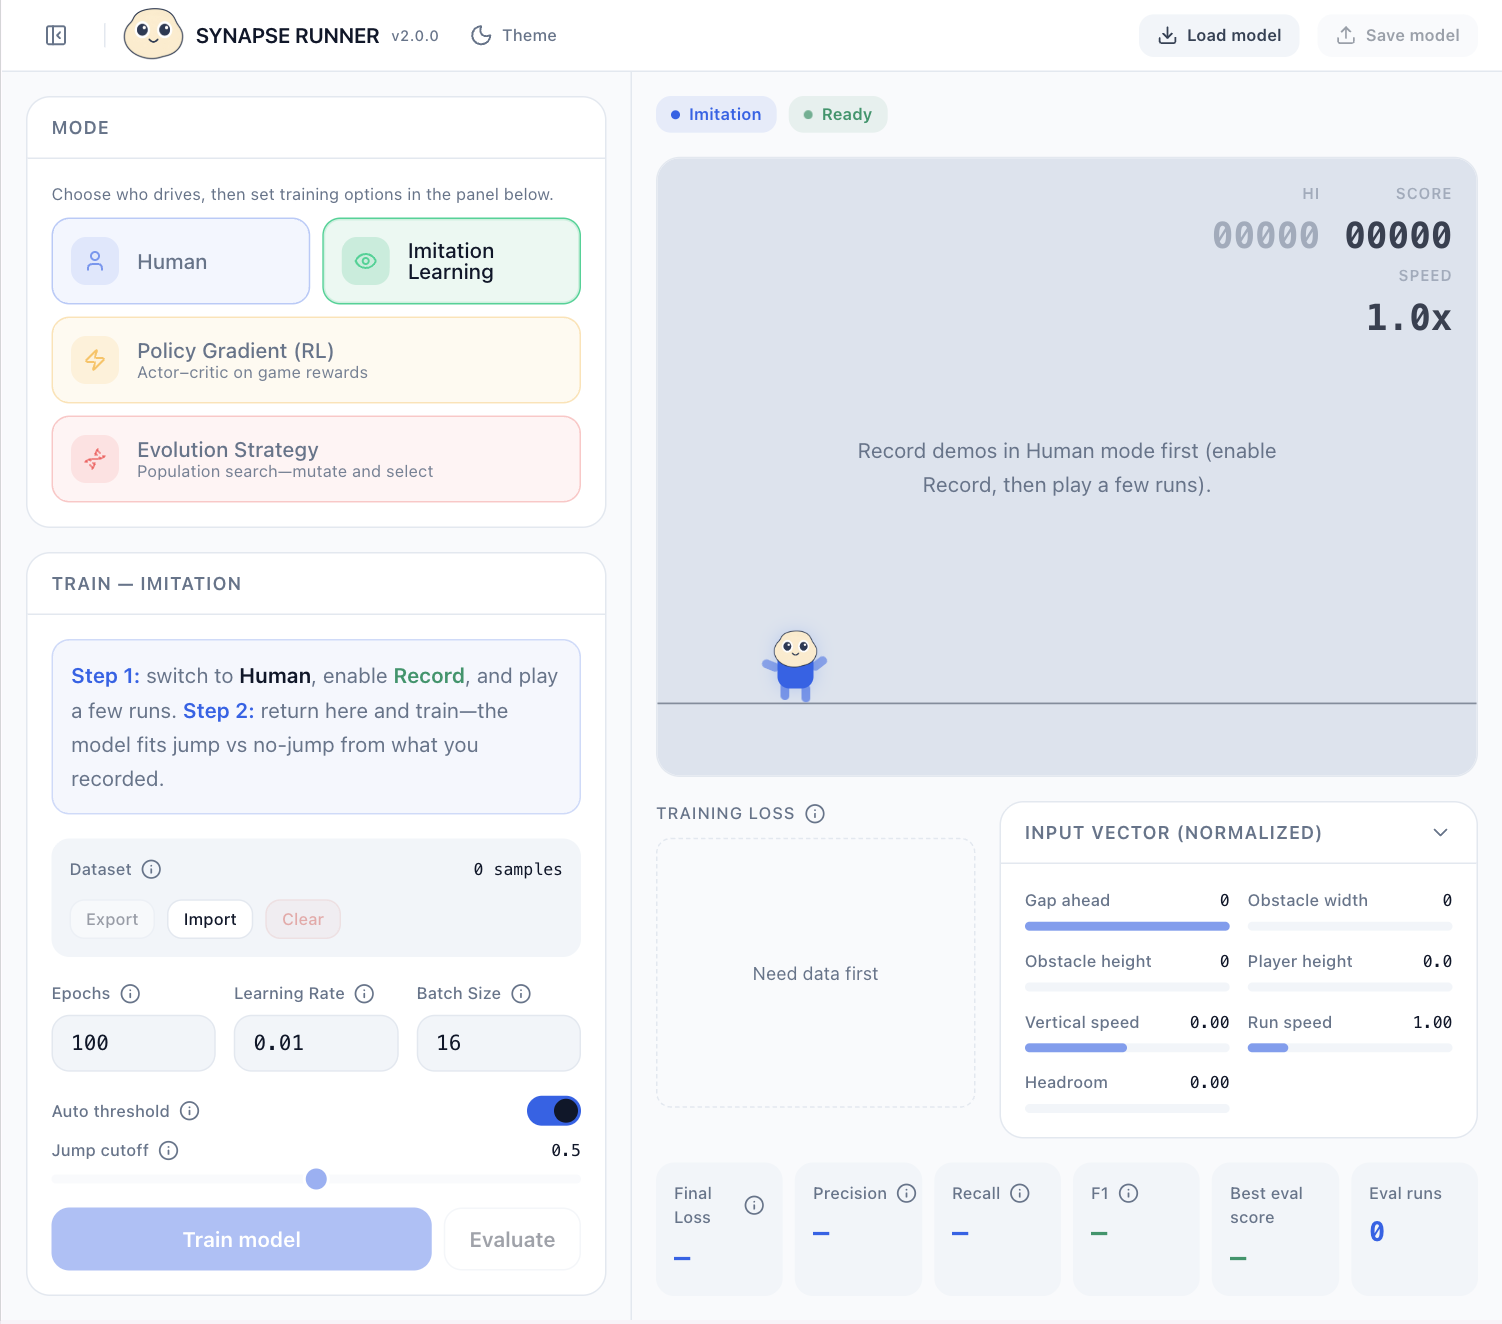
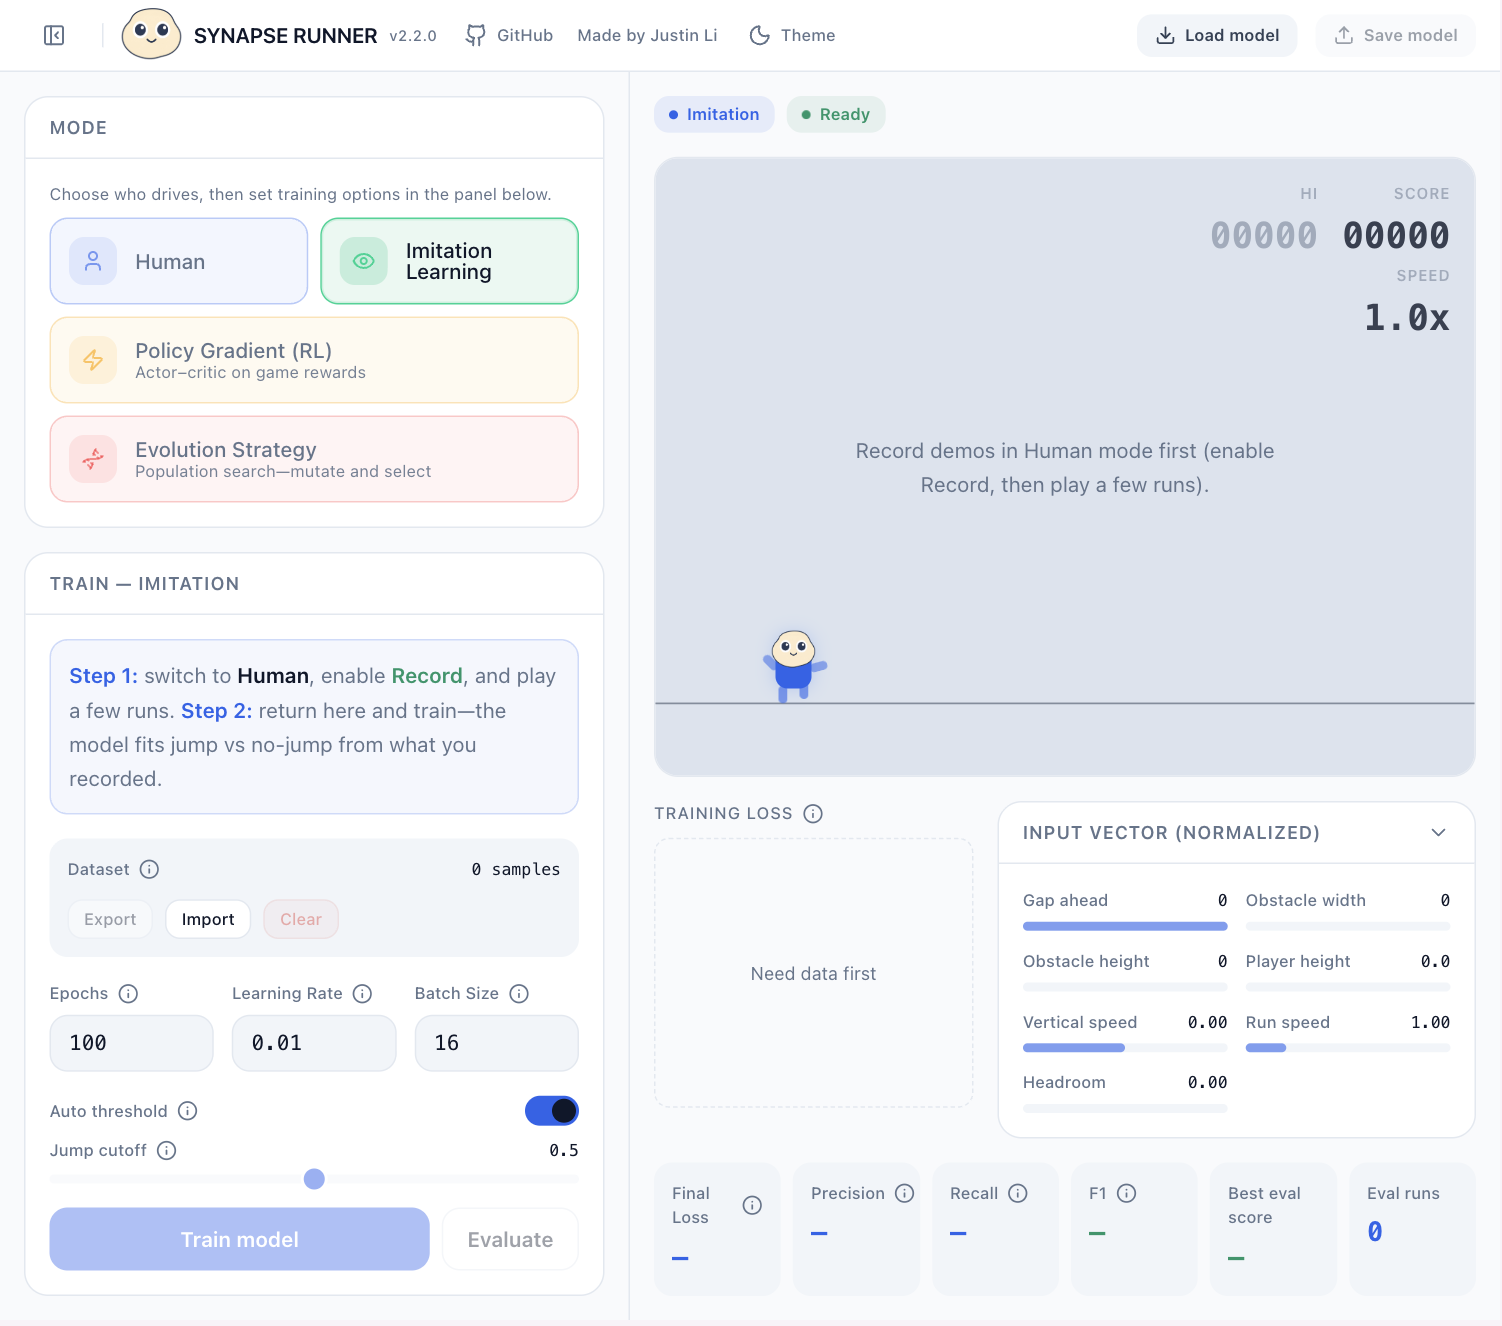
Release 2.2.0

diff --git a/src/components/dashboard/top-nav.tsx b/src/components/dashboard/top-nav.tsx
@@ -1,5 +1,5 @@
 import { useRef } from "react"
-import { Download, Upload, Moon, PanelLeftClose, PanelLeftOpen, Sun } from "lucide-react"
+import { Download, Github, Upload, Moon, PanelLeftClose, PanelLeftOpen, Sun } from "lucide-react"
 import { cn } from "@/lib/utils"
 import { APP_VERSION } from "@/version"
 import type { ImitationState, ImitationActions } from "@/hooks/useImitation"
@@ -76,6 +76,32 @@ export function TopNav({
           <span className="text-[10px] font-medium tabular-nums text-muted-foreground" title={`Version ${APP_VERSION}`}>
             v{APP_VERSION}
           </span>
+          <a
+            href="https://github.com/JustinLi6886/synapse-runner"
+            target="_blank"
+            rel="noopener noreferrer"
+            aria-label="View source on GitHub"
+            className={cn(
+              "ml-0.5 flex h-7 shrink-0 items-center gap-1.5 rounded-md px-2 text-muted-foreground transition-colors",
+              "hover:bg-secondary hover:text-card-foreground",
+              "focus-visible:outline-none focus-visible:ring-2 focus-visible:ring-ring"
+            )}
+          >
+            <Github className="h-4 w-4 shrink-0" aria-hidden />
+            <span className="text-[11px] font-medium">GitHub</span>
+          </a>
+          <a
+            href="https://github.com/JustinLi6886"
+            target="_blank"
+            rel="noopener noreferrer"
+            className={cn(
+              "text-[11px] font-medium text-muted-foreground whitespace-nowrap select-none transition-colors",
+              "hover:text-foreground hover:underline underline-offset-2",
+              "focus-visible:outline-none focus-visible:ring-2 focus-visible:ring-ring focus-visible:rounded-sm",
+            )}
+          >
+            Made by Justin Li
+          </a>
           <button
             type="button"
             onClick={() => onThemeChange(theme === "dark" ? "light" : "dark")}
@@ -94,7 +120,7 @@ export function TopNav({
       </div>
 
       {(showImitationModelControls || showPgModelControls || showEvolutionModelControls) && (
-        <div className="flex items-center gap-3">
+        <div className="flex items-center gap-3 shrink-0">
           {showImitationModelControls ? (
             <>
               <button

diff --git a/README.md b/README.md
@@ -6,7 +6,7 @@
 
 *Screenshot: **Imitation learning** — record demos, train behavioral cloning, inspect metrics.*
 
-**Live:** [synapserunner.com](https://www.synapserunner.com/) · **Repo:** [github.com/JustinLi6886/synapse-runner](https://github.com/JustinLi6886/synapse-runner) · **Current release:** `v2.1.0`
+**Live:** [synapserunner.com](https://www.synapserunner.com/) · **Repo:** [github.com/JustinLi6886/synapse-runner](https://github.com/JustinLi6886/synapse-runner) · **Current release:** `v2.2.0`
 
 A browser runner where the point isn’t flashy graphics—it’s an end-to-end **play → observe → train** loop in TypeScript. One game engine drives human control, recorded demos, and learning, all without a backend for the core experience.
 
